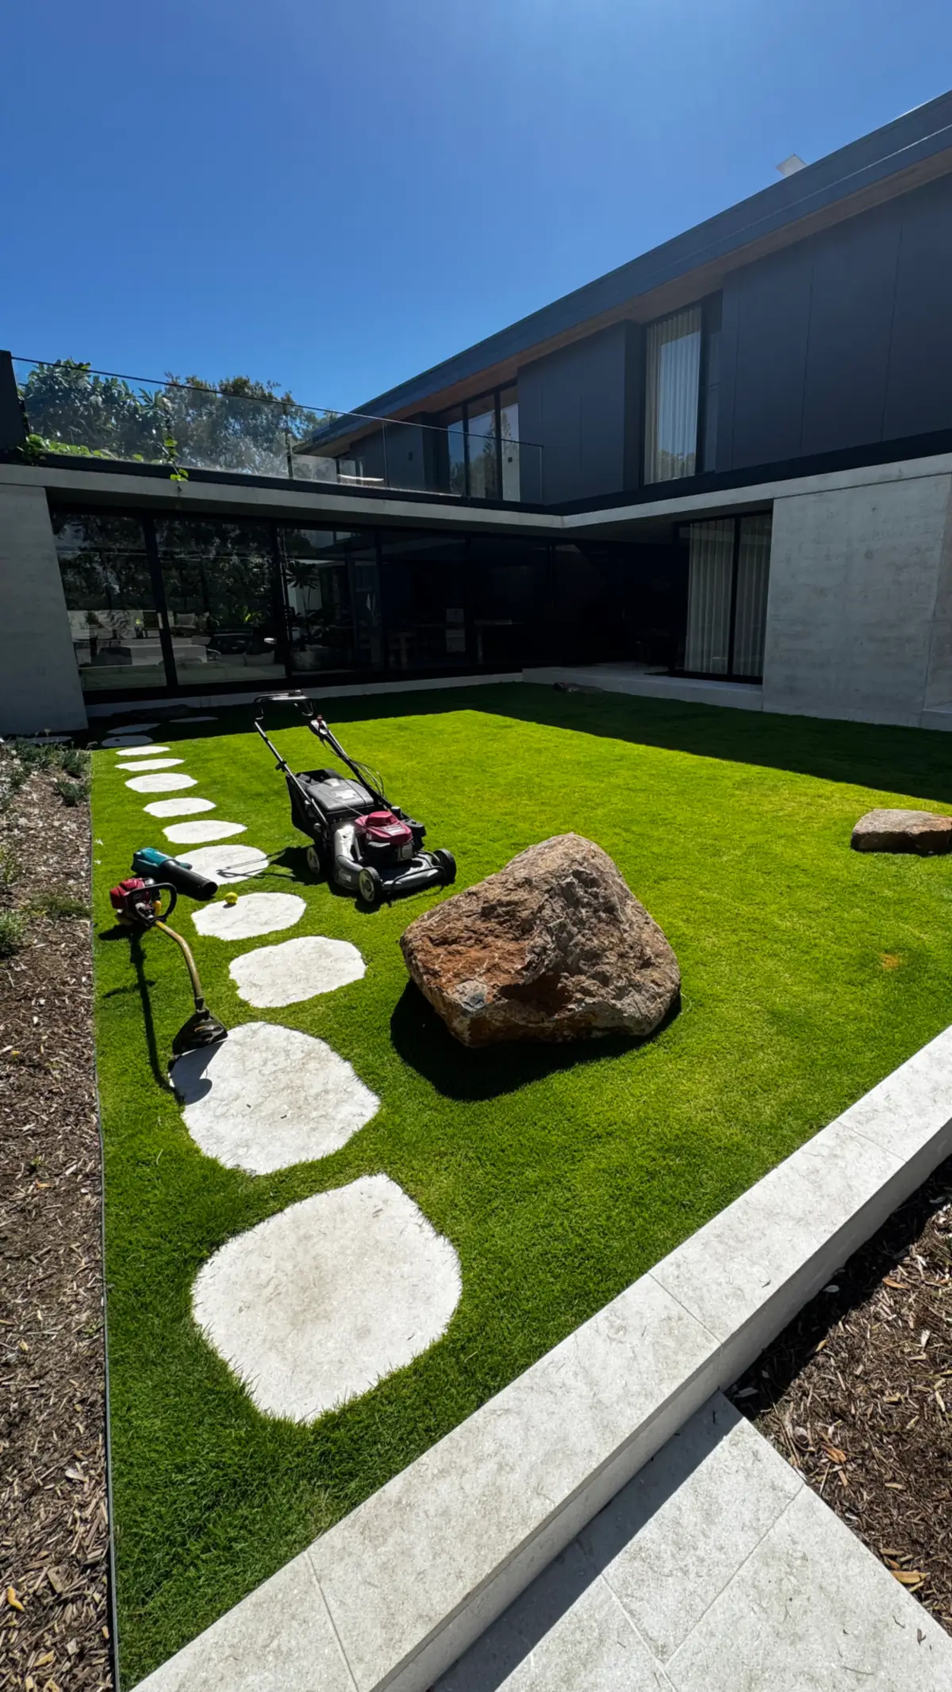
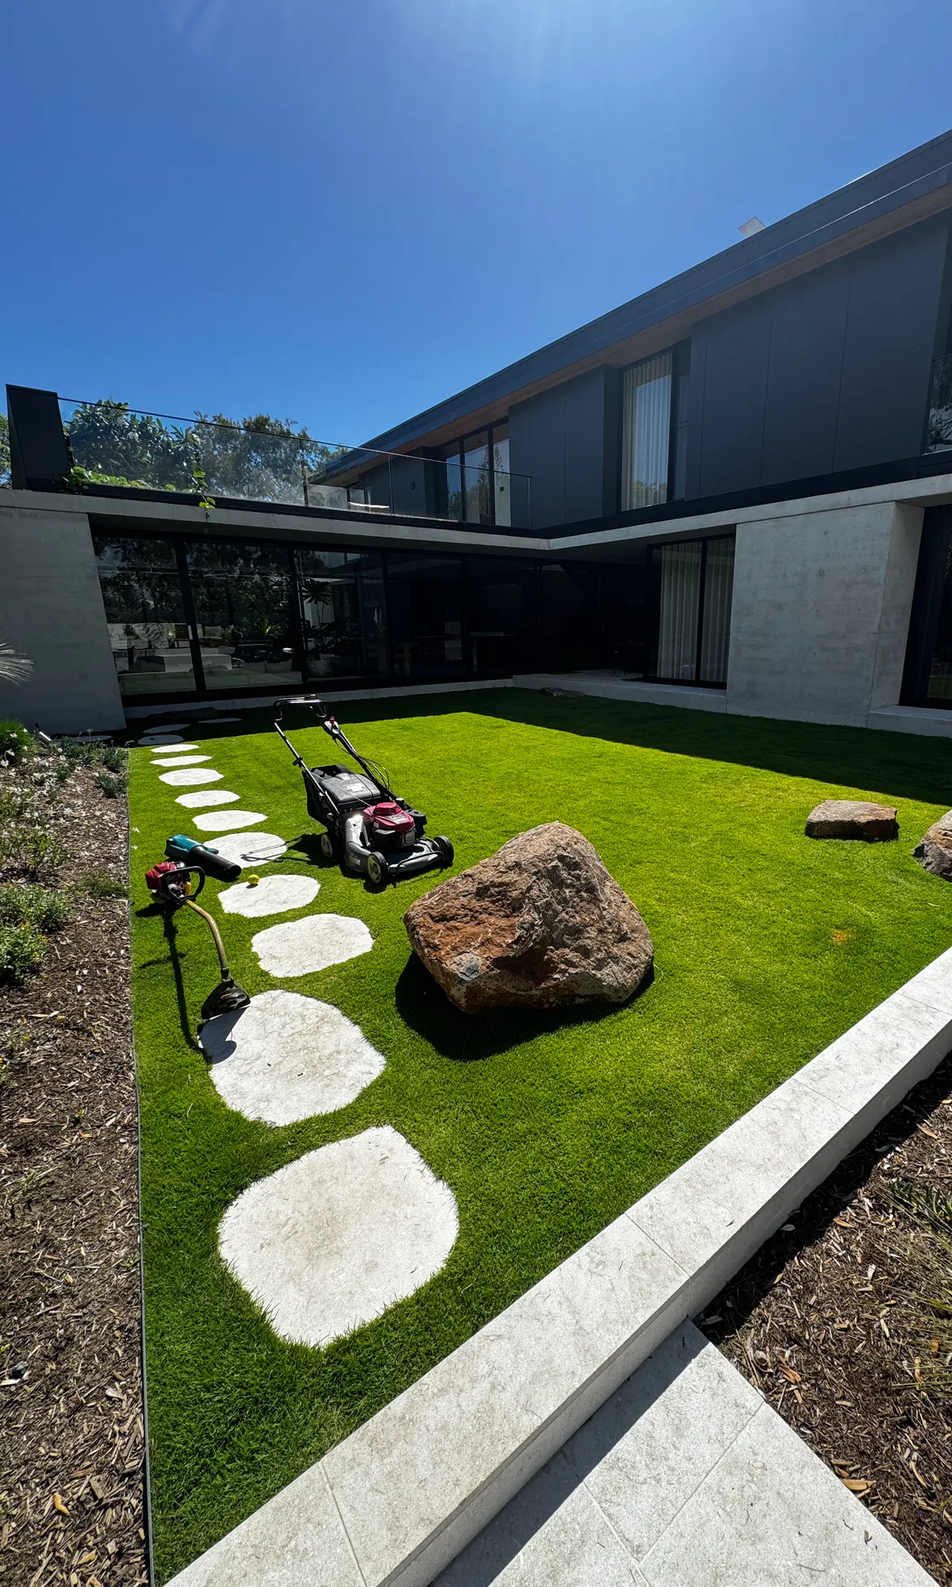
v13: sharper wider photos, contrast, smooth first load

diff --git a/index.html b/index.html
@@ -25,10 +25,11 @@
   <meta name="twitter:card" content="summary_large_image">
   <meta name="twitter:image" content="https://www.thriveoutdoorsolutions.com.au/images/og-image-v2.jpg">
 
-  <link rel="preload" as="image" type="image/webp" media="(max-aspect-ratio: 3/4)" href="images/show-pool-p810.webp" imagesrcset="images/show-pool-p810.webp 810w, images/show-pool-p1200.webp 1200w" imagesizes="100vw">
-  <link rel="preload" as="image" type="image/webp" media="(min-aspect-ratio: 751/1000)" href="images/show-pool-1600.webp" imagesrcset="images/show-pool-900.webp 900w, images/show-pool-1600.webp 1600w" imagesizes="100vw">
-  <link rel="stylesheet" href="css/styles.css?v=12">
-  <script>document.documentElement.classList.add('js')</script>
+  <link rel="preload" as="image" type="image/webp" media="(max-aspect-ratio: 3/4)" href="images/show-pool-p800.webp?v=13" imagesrcset="images/show-pool-p800.webp?v=13 800w, images/show-pool-p1200.webp?v=13 1200w, images/show-pool-p1600.webp?v=13 1600w" imagesizes="(max-width: 480px) 80vw, 100vw" fetchpriority="high">
+  <link rel="preload" as="image" type="image/webp" media="(min-aspect-ratio: 751/1000)" href="images/show-pool-1800.webp?v=13" imagesrcset="images/show-pool-1200.webp?v=13 1200w, images/show-pool-1800.webp?v=13 1800w, images/show-pool-2400.webp?v=13 2400w" imagesizes="(max-height: 500px) 60vw, 100vw" fetchpriority="high">
+  <link rel="stylesheet" href="css/styles.css?v=13">
[1 lines of base64/hex data omitted]
+  <script>(function(d){d.classList.add('js');setTimeout(function(){d.classList.add('bg-in')},6000)})(document.documentElement) /* bg-in: fail-safe so the first photo can never stay hidden */</script>
 
   <script type="application/ld+json">
   {
@@ -104,58 +105,59 @@
           <p class="fine">Free quotes &middot; Call or text anytime &middot; Based in Maleny</p>
         </div>
         <figure class="hero-media slideshow bg-b" aria-label="Photos of recent lawn and garden work">
+          <!-- v13 photo sizes: desktop 16:10 at 1200/1800/2400w; portrait 3:5 at 800/1200/1600w (phones capped near
+               2-3x density via sizes; photos 2-6 capped at 1800w on retina desktops, since they sit under a darker scrim) -->
           <div class="slides">
-            <picture class="slide is-active" data-caption="Lawn care, Sunshine Coast">
-              <source media="(max-aspect-ratio: 3/4)" type="image/webp" srcset="images/show-pool-p810.webp 810w, images/show-pool-p1200.webp 1200w" sizes="100vw">
-              <source media="(max-aspect-ratio: 3/4)" srcset="images/show-pool-p810.jpg 810w, images/show-pool-p1200.jpg 1200w" sizes="100vw">
-              <source type="image/webp" srcset="images/show-pool-900.webp 900w, images/show-pool-1600.webp 1600w" sizes="100vw">
-              <img src="images/show-pool-900.jpg" srcset="images/show-pool-900.jpg 900w, images/show-pool-1600.jpg 1600w" sizes="100vw"
-                   width="1600" height="900" fetchpriority="high"
+            <picture class="slide">
+              <source media="(max-aspect-ratio: 3/4)" type="image/webp" srcset="images/show-pool-p800.webp?v=13 800w, images/show-pool-p1200.webp?v=13 1200w, images/show-pool-p1600.webp?v=13 1600w" sizes="(max-width: 480px) 80vw, 100vw">
+              <source media="(max-aspect-ratio: 3/4)" srcset="images/show-pool-p1200.jpg?v=13">
+              <source type="image/webp" srcset="images/show-pool-1200.webp?v=13 1200w, images/show-pool-1800.webp?v=13 1800w, images/show-pool-2400.webp?v=13 2400w" sizes="(max-height: 500px) 60vw, 100vw">
+              <img src="images/show-pool-1800.jpg?v=13"
+                   width="1800" height="1125" fetchpriority="high" decoding="async"
                    alt="Freshly mown, striped green lawn framed by stone paving next to a glass-fenced pool">
             </picture>
-            <!-- Extra photos: hidden until the page has loaded, then main.js reveals them (lazy-loaded); scroll position picks the photo -->
-            <picture class="slide" data-caption="Lawn care" hidden>
-              <source media="(max-aspect-ratio: 3/4)" type="image/webp" srcset="images/show-house-p810.webp 810w, images/show-house-p1200.webp 1200w" sizes="100vw">
-              <source media="(max-aspect-ratio: 3/4)" srcset="images/show-house-p810.jpg 810w, images/show-house-p1200.jpg 1200w" sizes="100vw">
-              <source type="image/webp" srcset="images/show-house-900.webp 900w, images/show-house-1600.webp 1600w" sizes="100vw">
-              <img src="images/show-house-900.jpg" srcset="images/show-house-900.jpg 900w, images/show-house-1600.jpg 1600w" sizes="100vw"
-                   width="1600" height="900" loading="lazy" decoding="async"
+            <!-- Extra photos: hidden until the first photo is showing and the page has loaded; main.js then un-hides each one shortly before scroll reaches it (lazy-loaded). Scroll position picks the photo. -->
+            <picture class="slide" hidden>
+              <source media="(max-aspect-ratio: 3/4)" type="image/webp" srcset="images/show-house-p800.webp?v=13 800w, images/show-house-p1200.webp?v=13 1200w, images/show-house-p1600.webp?v=13 1600w" sizes="(max-width: 480px) 80vw, 100vw">
+              <source media="(max-aspect-ratio: 3/4)" srcset="images/show-house-p1200.jpg?v=13">
+              <source type="image/webp" srcset="images/show-house-1200.webp?v=13 1200w, images/show-house-1800.webp?v=13 1800w, images/show-house-2400.webp?v=13 2400w" sizes="(min-resolution: 1.5dppx) 62vw, 100vw">
+              <img src="images/show-house-1800.jpg?v=13"
+                   width="1800" height="1125" loading="lazy" decoding="async"
                    alt="Neat green lawn with round stepping stones and a large boulder in the courtyard of a modern house">
             </picture>
-            <picture class="slide" data-caption="Garden beds &amp; natives" hidden>
-              <source media="(max-aspect-ratio: 3/4)" type="image/webp" srcset="images/show-path-p810.webp 810w, images/show-path-p1200.webp 1200w" sizes="100vw">
-              <source media="(max-aspect-ratio: 3/4)" srcset="images/show-path-p810.jpg 810w, images/show-path-p1200.jpg 1200w" sizes="100vw">
-              <source type="image/webp" srcset="images/show-path-900.webp 900w, images/show-path-1600.webp 1600w" sizes="100vw">
-              <img src="images/show-path-900.jpg" srcset="images/show-path-900.jpg 900w, images/show-path-1600.jpg 1600w" sizes="100vw"
-                   width="1600" height="900" loading="lazy" decoding="async"
+            <picture class="slide" hidden>
+              <source media="(max-aspect-ratio: 3/4)" type="image/webp" srcset="images/show-path-p800.webp?v=13 800w, images/show-path-p1200.webp?v=13 1200w, images/show-path-p1600.webp?v=13 1600w" sizes="(max-width: 480px) 80vw, 100vw">
+              <source media="(max-aspect-ratio: 3/4)" srcset="images/show-path-p1200.jpg?v=13">
+              <source type="image/webp" srcset="images/show-path-1200.webp?v=13 1200w, images/show-path-1800.webp?v=13 1800w, images/show-path-2400.webp?v=13 2400w" sizes="(min-resolution: 1.5dppx) 62vw, 100vw">
+              <img src="images/show-path-1800.jpg?v=13"
+                   width="1800" height="1125" loading="lazy" decoding="async"
                    alt="Concrete path curving past a native garden bed with sandstone boulders and tufted grasses">
             </picture>
-            <picture class="slide" data-caption="Lawns &amp; paving" hidden>
-              <source media="(max-aspect-ratio: 3/4)" type="image/webp" srcset="images/show-paving-p810.webp 810w, images/show-paving-p1200.webp 1200w" sizes="100vw">
-              <source media="(max-aspect-ratio: 3/4)" srcset="images/show-paving-p810.jpg 810w, images/show-paving-p1200.jpg 1200w" sizes="100vw">
-              <source type="image/webp" srcset="images/show-paving-900.webp 900w, images/show-paving-1600.webp 1600w" sizes="100vw">
-              <img src="images/show-paving-900.jpg" srcset="images/show-paving-900.jpg 900w, images/show-paving-1600.jpg 1600w" sizes="100vw"
-                   width="1600" height="900" loading="lazy" decoding="async"
+            <picture class="slide" hidden>
+              <source media="(max-aspect-ratio: 3/4)" type="image/webp" srcset="images/show-paving-p800.webp?v=13 800w, images/show-paving-p1200.webp?v=13 1200w, images/show-paving-p1600.webp?v=13 1600w" sizes="(max-width: 480px) 80vw, 100vw">
+              <source media="(max-aspect-ratio: 3/4)" srcset="images/show-paving-p1200.jpg?v=13">
+              <source type="image/webp" srcset="images/show-paving-1200.webp?v=13 1200w, images/show-paving-1800.webp?v=13 1800w, images/show-paving-2400.webp?v=13 2400w" sizes="(min-resolution: 1.5dppx) 62vw, 100vw">
+              <img src="images/show-paving-1800.jpg?v=13"
+                   width="1800" height="1125" loading="lazy" decoding="async"
                    alt="Stepping-stone pavers set into a fresh green lawn in a tropical garden with palms and a timber bench">
             </picture>
-            <picture class="slide" data-caption="Hedges &amp; lawns" hidden>
-              <source media="(max-aspect-ratio: 3/4)" type="image/webp" srcset="images/show-hedges-p810.webp 810w, images/show-hedges-p1200.webp 1200w" sizes="100vw">
-              <source media="(max-aspect-ratio: 3/4)" srcset="images/show-hedges-p810.jpg 810w, images/show-hedges-p1200.jpg 1200w" sizes="100vw">
-              <source type="image/webp" srcset="images/show-hedges-900.webp 900w, images/show-hedges-1600.webp 1600w" sizes="100vw">
-              <img src="images/show-hedges-900.jpg" srcset="images/show-hedges-900.jpg 900w, images/show-hedges-1600.jpg 1600w" sizes="100vw"
-                   width="1600" height="900" loading="lazy" decoding="async"
+            <picture class="slide" hidden>
+              <source media="(max-aspect-ratio: 3/4)" type="image/webp" srcset="images/show-hedges-p800.webp?v=13 800w, images/show-hedges-p1200.webp?v=13 1200w, images/show-hedges-p1600.webp?v=13 1600w" sizes="(max-width: 480px) 80vw, 100vw">
+              <source media="(max-aspect-ratio: 3/4)" srcset="images/show-hedges-p1200.jpg?v=13">
+              <source type="image/webp" srcset="images/show-hedges-1200.webp?v=13 1200w, images/show-hedges-1800.webp?v=13 1800w, images/show-hedges-2400.webp?v=13 2400w" sizes="(min-resolution: 1.5dppx) 62vw, 100vw">
+              <img src="images/show-hedges-1800.jpg?v=13"
+                   width="1800" height="1125" loading="lazy" decoding="async"
                    alt="Large mown lawn following a curving line of clipped hedges, with palms and trees behind">
             </picture>
-            <picture class="slide" data-caption="New turf laid" hidden>
-              <source media="(max-aspect-ratio: 3/4)" type="image/webp" srcset="images/show-street-p810.webp 810w, images/show-street-p1200.webp 1200w" sizes="100vw">
-              <source media="(max-aspect-ratio: 3/4)" srcset="images/show-street-p810.jpg 810w, images/show-street-p1200.jpg 1200w" sizes="100vw">
-              <source type="image/webp" srcset="images/show-street-900.webp 900w, images/show-street-1600.webp 1600w" sizes="100vw">
-              <img src="images/show-street-900.jpg" srcset="images/show-street-900.jpg 900w, images/show-street-1600.jpg 1600w" sizes="100vw"
-                   width="1600" height="900" loading="lazy" decoding="async"
+            <picture class="slide" hidden>
+              <source media="(max-aspect-ratio: 3/4)" type="image/webp" srcset="images/show-street-p800.webp?v=13 800w, images/show-street-p1200.webp?v=13 1200w, images/show-street-p1600.webp?v=13 1600w" sizes="(max-width: 480px) 80vw, 100vw">
+              <source media="(max-aspect-ratio: 3/4)" srcset="images/show-street-p1200.jpg?v=13">
+              <source type="image/webp" srcset="images/show-street-1200.webp?v=13 1200w, images/show-street-1800.webp?v=13 1800w, images/show-street-2400.webp?v=13 2400w" sizes="(min-resolution: 1.5dppx) 62vw, 100vw">
+              <img src="images/show-street-1800.jpg?v=13"
+                   width="1800" height="1125" loading="lazy" decoding="async"
                    alt="Freshly laid turf across two front lawns beside a footpath on a suburban street">
             </picture>
           </div>
-          <figcaption>Lawn care, Sunshine Coast</figcaption>
         </figure>
       </div>
     </section>
@@ -378,6 +380,6 @@
     </div>
   </footer>
 
-  <script src="js/main.js?v=12" defer></script>
+  <script src="js/main.js?v=13" defer></script>
 </body>
 </html>

diff --git a/css/styles.css b/css/styles.css
@@ -57,8 +57,8 @@ p { margin: 0; }
   transition: background-color .15s, color .15s, border-color .15s;
 }
 .btn:hover { background: #a6d6b5; border-color: #a6d6b5; color: var(--accent-ink); }
-.btn-ghost { background: transparent; color: var(--text); border-color: var(--line); }
-.btn-ghost:hover { background: transparent; border-color: var(--accent); color: var(--accent); }
+.btn-ghost { background: rgba(14, 20, 17, .78); color: var(--text); border-color: rgba(232, 236, 230, .8); }
+.btn-ghost:hover { background: rgba(14, 20, 17, .88); border-color: var(--accent); color: var(--accent); }
 .btn-sm { min-height: 40px; padding: 0 16px; font-size: .95rem; }
 .btn-block { width: 100%; }
 
@@ -87,13 +87,6 @@ p { margin: 0; }
 .actions { display: flex; flex-wrap: wrap; gap: 12px; margin-top: 32px; }
 .hero .fine { margin-top: 20px; }
 .hero-media { margin: 0; position: relative; }
-.hero-media figcaption {
-  position: absolute; left: 12px; bottom: 12px; z-index: 3;
-  font-size: .8rem; color: var(--text);
-  background: rgba(14, 20, 17, .75); padding: 4px 10px; border-radius: 999px;
-  transition: opacity .35s ease;
-}
-.hero-media figcaption.is-fading { opacity: 0; }
 
 /* Sections */
 .section { padding: 80px 0; border-top: 1px solid var(--line); }
@@ -401,7 +394,7 @@ p { margin: 0; }
   position: relative; z-index: 1;
   min-height: 88vh; min-height: 88svh; padding: 120px 20px 88px;
   display: flex; flex-direction: column; justify-content: center;
-  text-align: center; text-shadow: 0 1px 24px rgba(14, 20, 17, .55);
+  text-align: center; text-shadow: 0 1px 2px rgba(14, 20, 17, .6), 0 1px 24px rgba(14, 20, 17, .7);
 }
 .hero h1, .hero .lede { margin-inline: auto; }
 .hero .actions { justify-content: center; }
@@ -413,25 +406,22 @@ p { margin: 0; }
 /* Photo layer (default: behind the hero only) */
 .hero-media { position: absolute; inset: 0; z-index: 0; overflow: hidden; background: var(--bg); }
 .hero-media .slides { position: absolute; inset: 0; }
-.hero-media .slide { position: absolute; inset: 0; opacity: 0; will-change: opacity; }
+.hero-media .slide { position: absolute; inset: 0; opacity: 0; }
 .hero-media .slide:first-child { opacity: 1; }
 .hero-media .slide img { width: 100%; height: 100%; object-fit: cover; }
 .hero-media::before, .hero-media::after { content: ""; position: absolute; inset: 0; z-index: 2; pointer-events: none; }
-.hero-media::before { /* base scrim: lighter in the middle, --bg at the edges */
+.hero-media::before { /* base scrim: lighter in the middle, --bg at the edges (v13: a little darker) */
   background:
-    radial-gradient(ellipse 75% 60% at 50% 50%, rgba(14, 20, 17, .6), rgba(14, 20, 17, .25) 75%),
-    linear-gradient(to bottom, rgba(14, 20, 17, .6) 0, rgba(14, 20, 17, .15) 25%, rgba(14, 20, 17, .15) 65%, rgba(14, 20, 17, .75) 100%);
+    radial-gradient(ellipse 75% 60% at 50% 50%, rgba(14, 20, 17, .72), rgba(14, 20, 17, .34) 75%),
+    linear-gradient(to bottom, rgba(14, 20, 17, .6) 0, rgba(14, 20, 17, .2) 25%, rgba(14, 20, 17, .2) 65%, rgba(14, 20, 17, .78) 100%);
 }
-.hero-media figcaption { left: max(20px, calc((100% - 1120px) / 2)); bottom: 24px; padding: 5px 12px; font-size: .82rem; }
 
 /* Living background: fixed full-viewport layer behind the whole page */
 @media (prefers-reduced-motion: no-preference) {
   .js .hero-media { position: fixed; inset: 0 0 auto; height: 100vh; height: 100lvh; z-index: -1; }
-  .js .hero-media::after { background: rgba(14, 20, 17, .58); opacity: var(--dim, 1); } /* darker further down (JS sets --dim) */
-  .js .hero-media figcaption { bottom: calc(24px + 100lvh - 100svh); opacity: var(--cap, 1); transition: opacity .35s ease; }
-  .js .hero-media figcaption.is-fading { opacity: 0; }
+  .js .hero-media::after { background: rgba(14, 20, 17, .64); opacity: var(--dim, 1); } /* darker further down (JS sets --dim) */
   .js .section { background: transparent; }
-  .js .section-alt { background: rgba(18, 26, 22, .45); }
+  .js .section-alt { background: rgba(18, 26, 22, .52); }
   .js .site-footer { background: rgba(14, 20, 17, .82); }
   .js .service, .js .review, .js .form { background: rgba(22, 31, 26, .92); }
   @supports ((backdrop-filter: blur(1px)) or (-webkit-backdrop-filter: blur(1px))) {
@@ -443,3 +433,35 @@ p { margin: 0; }
     }
   }
 }
+
+/* ==========================================================================
+   v13: sharper, less-zoomed photos; smooth first paint; more contrast.
+   ========================================================================== */
+/* Phones (portrait, narrower than 3:5): instead of a 9:16 crop blown up to cover the whole tall screen
+   (v12 showed ~57% of the photo width), show the whole 3:5 crop (full photo height, ~80% of its width)
+   at full width, centred vertically, with its top and bottom edges fading into the page colour.
+   The layer itself stays full-screen. Portrait tablets (3:5 to 3:4) use the same 3:5 photo with cover. */
+@media (max-aspect-ratio: 3/5) {
+  .hero-media .slide img { object-fit: contain; }
+  .hero-media .slides::after {
+    content: ""; position: absolute; inset: 0; z-index: 1; pointer-events: none;
+    background: linear-gradient(to bottom, var(--bg) calc(50% - 83.333vw), rgba(14, 20, 17, 0) calc(50% - 62vw),
+      rgba(14, 20, 17, 0) calc(50% + 50vw), var(--bg) calc(50% + 83.333vw));
+  }
+}
+/* First photo: a tiny blurred placeholder of it (inline <style> in index.html) is shown at once and sits
+   on top until the real photo has loaded and decoded, then dissolves away (~0.5 s), so the photo never
+   pops in or paints in stripes. Instant under reduced motion; without JS there is no overlay. */
+.js .hero-media .slides::before {
+  content: ""; position: absolute; inset: 0; z-index: 1; pointer-events: none; background: inherit;
+  transition: opacity .5s var(--ease), visibility 0s linear .5s;
+}
+.hero-media .slides.is-in::before, .bg-in .hero-media .slides::before { opacity: 0; visibility: hidden; }
+@media (prefers-reduced-motion: reduce) {
+  .js .hero-media .slides::before { transition: none; }
+}
+/* the hero text shadow is for text on the photo, not for text on the solid accent button */
+.hero .btn { text-shadow: none; }
+.hero .lede { color: #cfd6d1; } /* --muted, lifted a step for text that sits on the photo */
+/* Contrast over the photo (v12 -> v13): scrim .6/.25/.15 -> .72/.34/.2, scroll dim .58 -> .64,
+   alt panel .45 -> .52, hero text shadow tightened, ghost buttons get a dark fill + light border. */

diff --git a/js/main.js b/js/main.js
@@ -94,57 +94,64 @@
   }
 })();
 
-// Variant B (v12): living background. One fixed photo layer sits behind the whole page; the six
-// photos dissolve one into the next across the full page scroll (slow scroll = slow dissolve,
+// Variant B living background (v12, perf pass v13). One fixed photo layer sits behind the whole page;
+// the six photos dissolve one into the next across the full page scroll (slow scroll = slow dissolve,
 // scrolling back reverses). Earlier photos stay opaque underneath, so there is never a dark dip.
-// The scrim darkens over the first screen. Opacity only (cheap on phones), no zoom.
+// v13: a blurred placeholder covers the first photo until it has decoded, then dissolves (no rough pop-in); the other
+// photos are only un-hidden (so their lazy <img> starts loading) after the first is showing, one or two
+// ahead of the scroll position; will-change only on the pair being crossfaded; opacity only, no zoom.
 (function () {
   var root = document.querySelector('.slideshow');
   if (!root) return;
-  var caption = root.querySelector('figcaption');
   var slides = [].slice.call(root.querySelectorAll('.slide')), N = slides.length;
   var imgs = slides.map(function (s) { return s.querySelector('img'); });
   var reduce = window.matchMedia && window.matchMedia('(prefers-reduced-motion: reduce)').matches;
   var de = document.documentElement;
 
-  if (reduce || N < 2) return; // static first photo behind the hero
-  // Later photos un-hide after load so they never compete with the first paint (LCP)
-  function reveal() { slides.forEach(function (s) { s.hidden = false; }); onScroll(); }
+  // 1. First photo: drop the placeholder once the photo is fully decoded (CSS skips the fade under reduced motion)
+  var first = imgs[0], firstShown = false, loaded = document.readyState === 'complete', after = [];
+  function shown() { if (firstShown) return; firstShown = true; root.querySelector('.slides').classList.add('is-in'); setTimeout(go, reduce ? 0 : 550); }
+  function go() { while (after.length) after.shift()(); }
+  function whenReady(fn) { if (firstShown && loaded) fn(); else after.push(fn); }
+  if (first) {
+    var dec = function () { (first.decode ? first.decode() : Promise.resolve()).then(shown, shown); };
+    if (first.complete && first.naturalWidth) dec(); else { first.addEventListener('load', dec); first.addEventListener('error', shown); }
+  }
+  window.addEventListener('load', function () { loaded = true; if (firstShown) go(); });
 
-  var max = 1, vh = 1, shown = 0, capTimer = null, ticking = false, last = [];
+  if (reduce || N < 2) return; // static first photo behind the hero
+
+  var max = 1, vh = 1, ticking = false, last = [], wc = [], ready = false;
   function measure() { vh = window.innerHeight; max = Math.max(1, de.scrollHeight - vh); }
   function clamp(x) { return x < 0 ? 0 : x > 1 ? 1 : x; }
-  function set(el, prop, v) { if (el.style[prop] !== v) el.style[prop] = v; }
 
   function frame() {
     ticking = false;
-    var y = window.scrollY, s = clamp(y / max) * (N - 1), top = 0;
-    shown = 0;
+    var y = window.scrollY, s = clamp(y / max) * (N - 1), top = 0, k = Math.floor(s);
+    // un-hide (= start loading) each photo about half a photo-length before its dissolve begins
+    if (ready) for (var h = 1; h < N && h <= Math.floor(s + 1.3); h++) if (slides[h].hidden) slides[h].hidden = false;
     for (var i = 1; i < N; i++) {
       var o = clamp((s - (i - 1) - 0.2) / 0.6); // hold each photo a little, then dissolve
       o = o * o * (3 - 2 * o);                  // smoothstep
       if (o !== last[i]) { slides[i].style.opacity = o; last[i] = o; }
       if (o === 1 && imgs[i].complete && imgs[i].naturalWidth) top = i;
-      if (o > 0.5) shown = i;
     }
-    for (var j = 0; j < N; j++) set(slides[j], 'visibility', j < top ? 'hidden' : '');
+    for (var j = 0; j < N; j++) {
+      var v = j < top ? 'hidden' : '', w = (j === k || j === k + 1) && j > 0 ? 'opacity' : 'auto';
+      if (slides[j].style.visibility !== v) slides[j].style.visibility = v;
+      if (wc[j] !== w) { slides[j].style.willChange = w; wc[j] = w; }
+    }
     root.style.setProperty('--dim', clamp(y / (vh * 0.9)).toFixed(3));
-    root.style.setProperty('--cap', (1 - clamp((y - vh * 0.3) / (vh * 0.4))).toFixed(3));
-    if (caption && caption.getAttribute('data-for') !== String(shown)) {
-      caption.setAttribute('data-for', shown);
-      var text = slides[shown].getAttribute('data-caption');
-      clearTimeout(capTimer);
-      caption.classList.add('is-fading');
-      capTimer = setTimeout(function () { caption.textContent = text; caption.classList.remove('is-fading'); }, 300);
-    }
   }
   function onScroll() { if (!ticking) { ticking = true; requestAnimationFrame(frame); } }
-  if (caption) caption.setAttribute('data-for', '0');
   imgs.forEach(function (img) { img.addEventListener('load', onScroll); });
   window.addEventListener('scroll', onScroll, { passive: true });
   window.addEventListener('resize', function () { measure(); onScroll(); }, { passive: true });
-  window.addEventListener('load', function () { measure(); reveal(); });
-  if (document.readyState === 'complete') reveal();
+  whenReady(function () {
+    measure(); ready = true;
+    var next = function () { if (slides[1].hidden) slides[1].hidden = false; onScroll(); };
+    if (window.requestIdleCallback) requestIdleCallback(next, { timeout: 1500 }); else setTimeout(next, 200);
+  });
   measure();
   frame();
 })();
